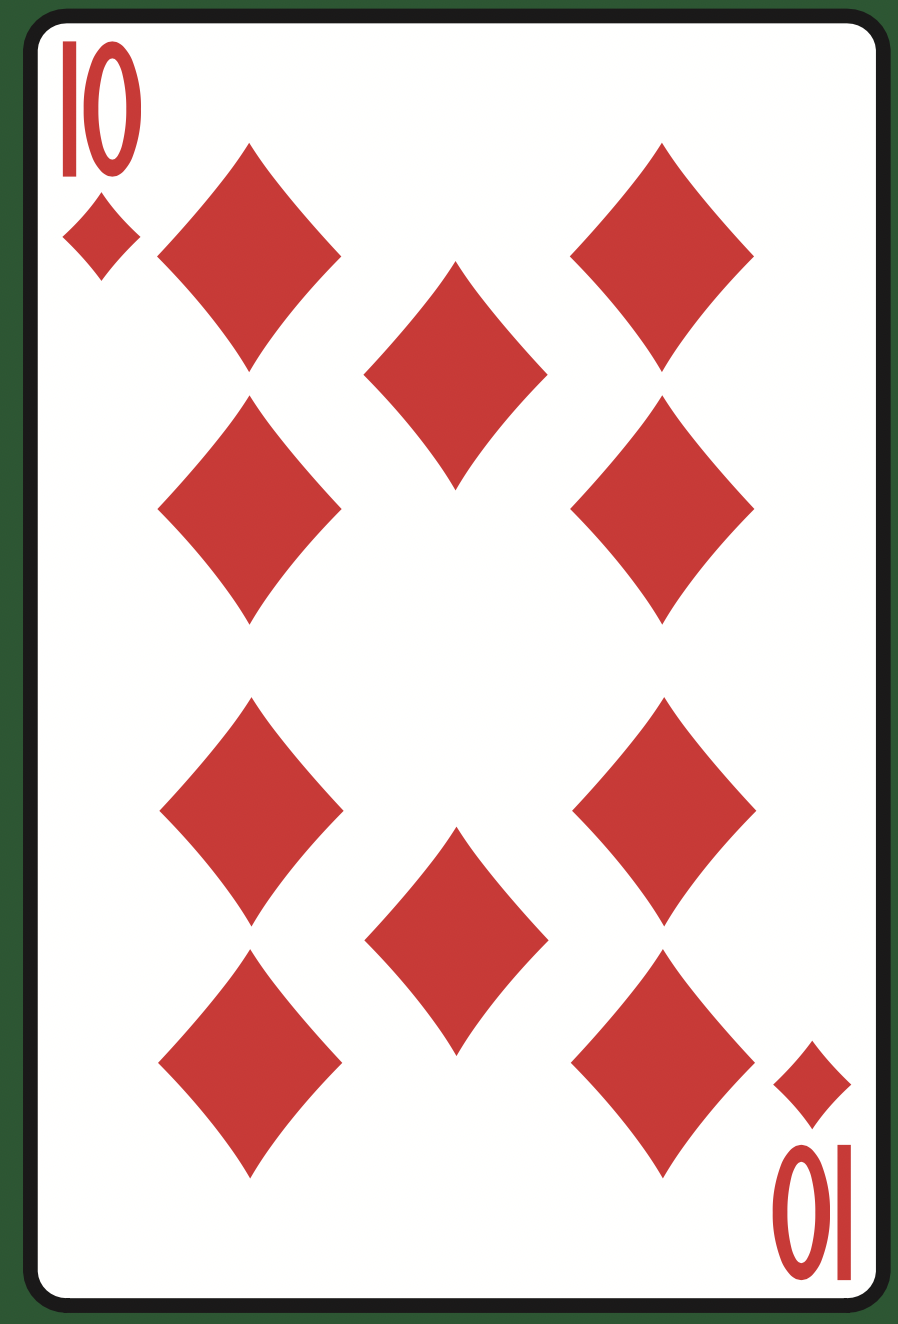
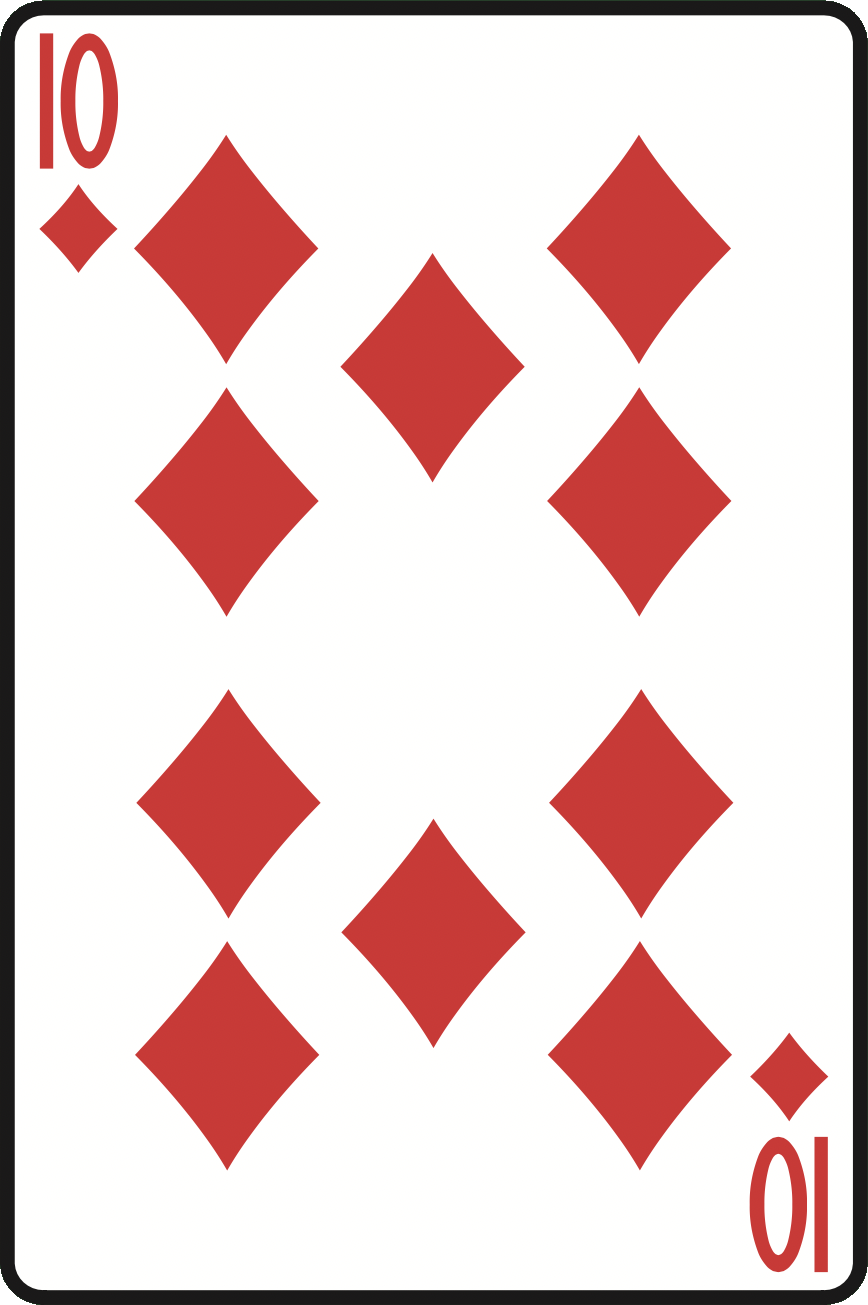
Added new card's graphics, updated game screen, working at desk view

diff --git a/GameScreen.py b/GameScreen.py
@@ -1,5 +1,7 @@
 import sys
 import pygame.event
+
+from Button import Button
 from Card import CardGUI
 from Database import Database
 from GUISettings import *
@@ -20,7 +22,10 @@ class GameScreen:
         self.control_panel = control_panel
         self.all_sprites = pygame.sprite.Group()
         self.is_done = False
+        self.clicked_card = None
         self.cards = []
+        self.buttons = []
+        self.initialize_buttons()
 
     def main(self):
         if len(self.cards) == 0:
@@ -31,13 +36,25 @@ class GameScreen:
     def handle_clicks(self):
         for event in pygame.event.get():
             if event.type == pygame.MOUSEBUTTONDOWN:
+                if event.button == 1:
+                    if self.game.rounds[-1].bidding.current_bidding_player_id == self.game.id_player:
+                        for button in self.buttons:
+                            button.do_sth()
                 self.card_clicked()
             if event.type == pygame.QUIT:
                 self.quit()
 
     def manage_display(self):
         if self.cards:
-            self.display_cards(not self.control_panel.end_bidding_phase, self.cards)
+            self.display_cards(self.cards)
+
+        if self.game.id_player == self.game.rounds[-1].current_id_player:
+            for button in self.buttons:
+                button.render(False)
+        else:
+            message_waiting = FONT_INFO_AFTER_BIDDING.render("PLAYER'S %i TURN" % self.game.rounds[-1].current_id_player,
+                                                             True, (255, 255, 255), BACKGROUND_COLOR)
+            self.display.blit(message_waiting, (WIDTH - 50, 50))
         pygame.display.update()
 
     def create_cards(self):
@@ -47,13 +64,15 @@ class GameScreen:
                                                        [(self.game.id_player + 1) % 3].cards, self.all_sprites)
         oponent2_cards_gui = RoundGUI.create_cards_gui(self.game.rounds[-1].players_rounds
                                                        [(self.game.id_player + 2) % 3].cards, self.all_sprites)
+        desk_cards_gui = RoundGUI.create_cards_gui(self.game.rounds[-1].desk, self.all_sprites)
 
-        return player_cards_gui, oponent1_cards_gui, oponent2_cards_gui
+        return player_cards_gui, oponent1_cards_gui, oponent2_cards_gui, desk_cards_gui
 
-    def display_cards(self, hidden_bidding, cards):
-        player_cards_gui, oponent1_cards_gui, oponent2_cards_gui = cards
+    def display_cards(self, cards):
+        player_cards_gui, oponent1_cards_gui, oponent2_cards_gui, desk_cards_gui = cards
         # rozkładamy karty
         RoundGUI.display_player_cards(player_cards_gui)
+        self.display.fill(BACKGROUND_COLOR)
 
         # przeciwnik 1
         message_waiting = FONT_INFO_AFTER_BIDDING.render("P%i" % ((self.game.id_player + 1) % 3), True, (255, 255, 255),
@@ -67,16 +86,37 @@ class GameScreen:
         self.display.blit(message_waiting, (WIDTH - 80, 30))
         RoundGUI.display_oponent_cards(oponent2_cards_gui, False)
 
-        self.display.fill(BACKGROUND_COLOR)
+        RoundGUI.display_desk(desk_cards_gui, self.game.id_player, self.game.rounds[-1].current_id_player)
+
         self.all_sprites.draw(self.display)
-        pygame.display.update()
+
+    def initialize_buttons(self):
+        self.buttons.append(Button(self, (WIDTH / 2), 30, 150, 60,
+                                   FONT_BIDDING_PLAYERS.render("Make move", True, (0, 0, 0)), self.make_move,
+                                   self.display))
+
+    def make_move(self):
+        if self.clicked_card.card is not None:
+            color = self.clicked_card.card.color
+            value = self.clicked_card.card.value
+            # Na razie domyślnie fałsz
+            if_queen_king_pair = False
+            Database.make_move(self.game.rounds[-1].id_r, self.game.id_player, color, value,
+                               if_queen_king_pair)
+            self.clicked_card = None
+            self.game.rounds[-1].players_rounds[self.game.id_player].make_move\
+                (self.game.rounds[-1].desk, self.game.id_player, self.clicked_card.card)
+        else:
+            print("Nie wybrano karty")
 
     def card_clicked(self):
         pos = pygame.mouse.get_pos()
         clicked_sprites = [s for s in self.all_sprites if s.rect.collidepoint(pos)]
         if len(clicked_sprites) != 0:
             clicked_sprites[len(clicked_sprites) - 1].update(pygame.MOUSEBUTTONDOWN)
-            pygame.display.update()
+            if self.clicked_card:
+                self.clicked_card.update(pygame.MOUSEBUTTONDOWN)
+            self.clicked_card = clicked_sprites[len(clicked_sprites) - 1]
 
     def quit(self):
         Database.leave_game(self.game.id_game)

diff --git a/Card.py b/Card.py
@@ -1,31 +1,32 @@
 from GUISettings import CARD_HEIGHT, CARD_WIDTH, CARD_OFFSET_TOP
 import pygame
 
+
 cards_images = [[pygame.image.load("CardsIMG/card11.png"),
-            pygame.image.load("CardsIMG/card12.png"),
-            pygame.image.load("CardsIMG/card13.png"),
-            pygame.image.load("CardsIMG/card14.png"),
-            pygame.image.load("CardsIMG/card15.png"),
-            pygame.image.load("CardsIMG/card16.png")
-        ], [pygame.image.load("CardsIMG/card21.png"),
-            pygame.image.load("CardsIMG/card22.png"),
-            pygame.image.load("CardsIMG/card23.png"),
-            pygame.image.load("CardsIMG/card24.png"),
-            pygame.image.load("CardsIMG/card25.png"),
-            pygame.image.load("CardsIMG/card26.png"),
-        ], [pygame.image.load("CardsIMG/card31.png"),
-            pygame.image.load("CardsIMG/card32.png"),
-            pygame.image.load("CardsIMG/card33.png"),
-            pygame.image.load("CardsIMG/card34.png"),
-            pygame.image.load("CardsIMG/card35.png"),
-            pygame.image.load("CardsIMG/card36.png")
-        ], [pygame.image.load("CardsIMG/card41.png"),
-            pygame.image.load("CardsIMG/card42.png"),
-            pygame.image.load("CardsIMG/card43.png"),
-            pygame.image.load("CardsIMG/card44.png"),
-            pygame.image.load("CardsIMG/card45.png"),
-            pygame.image.load("CardsIMG/card46.png"),
-        ]]
+                 pygame.image.load("CardsIMG/card12.png"),
+                 pygame.image.load("CardsIMG/card13.png"),
+                 pygame.image.load("CardsIMG/card14.png"),
+                 pygame.image.load("CardsIMG/card15.png"),
+                 pygame.image.load("CardsIMG/card16.png")
+                 ], [pygame.image.load("CardsIMG/card21.png"),
+                     pygame.image.load("CardsIMG/card22.png"),
+                     pygame.image.load("CardsIMG/card23.png"),
+                     pygame.image.load("CardsIMG/card24.png"),
+                     pygame.image.load("CardsIMG/card25.png"),
+                     pygame.image.load("CardsIMG/card26.png"),
+                     ], [pygame.image.load("CardsIMG/card31.png"),
+                         pygame.image.load("CardsIMG/card32.png"),
+                         pygame.image.load("CardsIMG/card33.png"),
+                         pygame.image.load("CardsIMG/card34.png"),
+                         pygame.image.load("CardsIMG/card35.png"),
+                         pygame.image.load("CardsIMG/card36.png")
+                         ], [pygame.image.load("CardsIMG/card41.png"),
+                             pygame.image.load("CardsIMG/card42.png"),
+                             pygame.image.load("CardsIMG/card43.png"),
+                             pygame.image.load("CardsIMG/card44.png"),
+                             pygame.image.load("CardsIMG/card45.png"),
+                             pygame.image.load("CardsIMG/card46.png"),
+                             ]]
 
 card_back_img = pygame.image.load("CardsIMG/card00.png")
 
@@ -69,7 +70,7 @@ class Card:
 
     @staticmethod
     def card_from_sql(card_sql):
-        return Card(int(card_sql/10), (card_sql % 10)) if card_sql is not None else None
+        return Card(int(card_sql / 10), (card_sql % 10)) if card_sql is not None else None
 
     def __eq__(self, other):
         if isinstance(other, Card):
@@ -79,9 +80,11 @@ class Card:
         else:
             return False
 
+    def __hash__(self):
+        return hash(self.value + self.color)
+
 
 class CardGUI(pygame.sprite.Sprite):
-
     __card_back_image: pygame.image
     __card_image: pygame.image
     __is_clicked: bool
@@ -95,7 +98,7 @@ class CardGUI(pygame.sprite.Sprite):
         v = card.value
         c = card.color
         self.surf = pygame.Surface((CARD_WIDTH, CARD_HEIGHT))
-        self.__card_image = cards_images[c-1][v-1]
+        self.__card_image = cards_images[c - 1][v - 1]
         self.__card_image = pygame.transform.scale(self.__card_image, (CARD_WIDTH, CARD_HEIGHT))
         self.__card_back_image = card_back_img
         self.__card_back_image = pygame.transform.scale(self.__card_back_image, (CARD_WIDTH, CARD_HEIGHT))

diff --git a/Round.py b/Round.py
@@ -16,18 +16,24 @@ class Round:
     __last_move: str
     __dealing_player_id: int
     __id_r: int
+    __last_move_player_id: int
 
     def __init__(self, players_rounds, dealing_player_id):
         self.__players_rounds = players_rounds
         self.__bidding = Bidding(players_rounds[(dealing_player_id + 1) % 3])
-        self.__desk = []
+        self.__desk = [None, None, None]
         self.__dealing_player_id = dealing_player_id
         self.__id_r = 0
+        self.__last_move_player_id = -1
         self.__last_round = ""
 
     @property
     def bidding(self):
         return self.__bidding
+
+    @property
+    def desk(self):
+        return self.__desk
 
     @property
     def players_rounds(self):
@@ -52,6 +58,21 @@ class Round:
     @property
     def dealing_player_id(self):
         return self.__dealing_player_id
+
+    @property
+    def last_move_player_id(self):
+        return self.__last_move_player_id
+
+    @last_move_player_id.setter
+    def last_move_player_id(self, last_move_player_id):
+        self.__last_move_player_id = last_move_player_id
+
+    @property
+    def current_id_player(self):
+        if self.__last_move_player_id != -1:
+            return self.bidding.last_bidding_player_id
+        else:
+            return (self.__last_move_player_id + 1) % 3
 
     def used_bomb(self, player_id):
         for pr in self.players_rounds:
@@ -175,3 +196,43 @@ class RoundGUI:
             card.image = card.card_back_image if is_covered else card.card_image
             card.rect = card.image.get_rect(center=(card.left + CARD_WIDTH / 2, card.top + CARD_HEIGHT / 2))
             card.card.is_reversed = is_covered
+
+    @staticmethod
+    def display_desk(desk_cards_gui: pygame.sprite.Group(), self_player_id, starting_id_player):
+
+        sprites_cards = desk_cards_gui.sprites()
+        gui_desk_cards = [None, None, None]
+        try:
+            gui_desk_cards[starting_id_player] = sprites_cards[0]
+            gui_desk_cards[(starting_id_player + 1) % 3] = sprites_cards[1]
+            gui_desk_cards[(starting_id_player + 2) % 3] = sprites_cards[2]
+        except:
+            ...
+
+        card_gui_me = gui_desk_cards[self_player_id]
+        card_gui_op1 = gui_desk_cards[(self_player_id + 1) % 3]
+        card_gui_op2 = gui_desk_cards[(self_player_id + 2) % 3]
+
+        top_op = 160
+        top_me = top_op + 10
+        left_op1 = WIDTH / 2 + 5
+        left_op2 = WIDTH / 2 - CARD_WIDTH - 5
+        left_me = WIDTH / 2 - CARD_WIDTH / 2
+
+        if card_gui_me is not None:
+            RoundGUI.display_desk_card(card_gui_me, left_me, top_me)
+
+        if card_gui_op1 is not None:
+            RoundGUI.display_desk_card(card_gui_op1, left_op1, top_op)
+
+        if card_gui_op2 is not None:
+            RoundGUI.display_desk_card(card_gui_op2, left_op2, top_op)
+
+    @staticmethod
+    def display_desk_card(card, left, top):
+        card.left = left
+        card.top = top
+        card.image = card.card_image
+        card.rect = card.image.get_rect(center=(card.left + CARD_WIDTH / 2, card.top +
+                                                CARD_HEIGHT / 2))
+        card.card.is_reversed = False

diff --git a/ControlPanel.py b/ControlPanel.py
@@ -4,6 +4,7 @@ from threading import Event
 from Card import Card
 from Database import Database
 from Timer import RepeatedTimer
+from GUISettings import TIME_CHECKING_PLAYERS, TIME_CHECKING_BIDDINGS, TIME_CHECKING_DEALINGS, TIME_CHECKING_MOVES
 
 
 class ControlPanel:
@@ -31,10 +32,11 @@ class ControlPanel:
 
     def __init__(self, game):
         self.game = game
-        self.timer_check_players = RepeatedTimer(Event(), 2, self.check_players)
+        self.timer_check_players = RepeatedTimer(Event(), TIME_CHECKING_PLAYERS, self.check_players)
         self.timer_check_players.start()
-        self.timer_check_dealing = RepeatedTimer(Event(), 2, self.check_dealing)
-        self.timer_check_bidding = RepeatedTimer(Event(), 2, self.check_bidding)
+        self.timer_check_dealing = RepeatedTimer(Event(), TIME_CHECKING_DEALINGS, self.check_dealing)
+        self.timer_check_bidding = RepeatedTimer(Event(), TIME_CHECKING_BIDDINGS, self.check_bidding)
+        self.timer_check_moves = RepeatedTimer(Event(), TIME_CHECKING_MOVES, self.check_moves)
         self.timers = []
         self.timers.append(self.timer_check_players)
         self.timers.append(self.timer_check_dealing)
@@ -117,5 +119,5 @@ class ControlPanel:
                     self.bidding_phase = False
                     self.end_bidding_phase = True
 
-    def check_moves(self, id_game):
+    def check_moves(self):
         ...

diff --git a/Database.py b/Database.py
@@ -166,15 +166,14 @@ class Database:
         return Database.execute_db(query_leave_game)
 
     @staticmethod
-    def make_move(idg, idr, idp, i_card_color, i_card_value, b_if_king_queen_pair, b_if_bomb, b_if_again_dealing):
+    def make_move(idr, idp, i_card_color, i_card_value, b_if_king_queen_pair):
         card_color = "null" if i_card_color is None else str(i_card_color)
         card_value = "null" if i_card_value is None else str(i_card_value)
         if_king_queen_pair = "1" if b_if_king_queen_pair is None else "0"
 
-        query_make_move = "insert into MOVEMENTS_1000 (IdG, IdR, IdP, CardColor, CardValue, IfKingQueenPair, IfBomb, " \
-                          "IfAgainDealing) values (" + idg + \
-                          ", " + idr + ", " + idp + ", " + card_color + ", " + card_value + ", " + if_king_queen_pair \
-                          + ")"
+        query_make_move = "insert into MOVEMENTS_1000 (IdR, IdP, CardColor, CardValue, IfKingQueenPair" \
+                          ") values (" + str(idr) + ", " + str(idp) + ", " + str(card_color) + ", " + \
+                          str(card_value) + ", " + str(if_king_queen_pair) + ")"
 
         return Database.execute_db(query_make_move)
 

diff --git a/GUISettings.py b/GUISettings.py
@@ -38,7 +38,7 @@ CARD_WIDTH = 150
 CARD_HEIGHT = 216
 
 OPPONENT_CARD_LOCATION_LEFT = -84
-OPPONENT_CARD_LOCATION_RIGHT = 1000
+OPPONENT_CARD_LOCATION_RIGHT = 1050
 BIDDING_LOCATION_TOP = 240
 CARD_LOCATION_TOP = 550
 CARD_OFFSET_TOP = 50
@@ -50,3 +50,9 @@ OPPONENT_CARD_OFFSET = -100
 
 TABLE_WIDTH = 300
 TABLE_HEIGHT = 400
+
+# Czasy dostępu do bazy
+TIME_CHECKING_PLAYERS = 3
+TIME_CHECKING_DEALINGS = 4
+TIME_CHECKING_BIDDINGS = 2
+TIME_CHECKING_MOVES = 2

diff --git a/PlayerRound.py b/PlayerRound.py
@@ -67,9 +67,8 @@ class PlayerRound:
                 nines += 1
         return nines == 4
 
-    def play_card(self, card_id):
-        card = self.__cards.pop(card_id)
-        return card
+    def play_card(self, desk, id_player, card):
+        desk[id_player] = self.__cards.pop(self.__cards.index(card))
 
     def sort_cards(self):
         if self is not None:

diff --git a/Bidding.py b/Bidding.py
@@ -1,6 +1,5 @@
 import Settings
 from Card import Card
-from Player import Player
 from PlayerRound import PlayerRound
 
 
